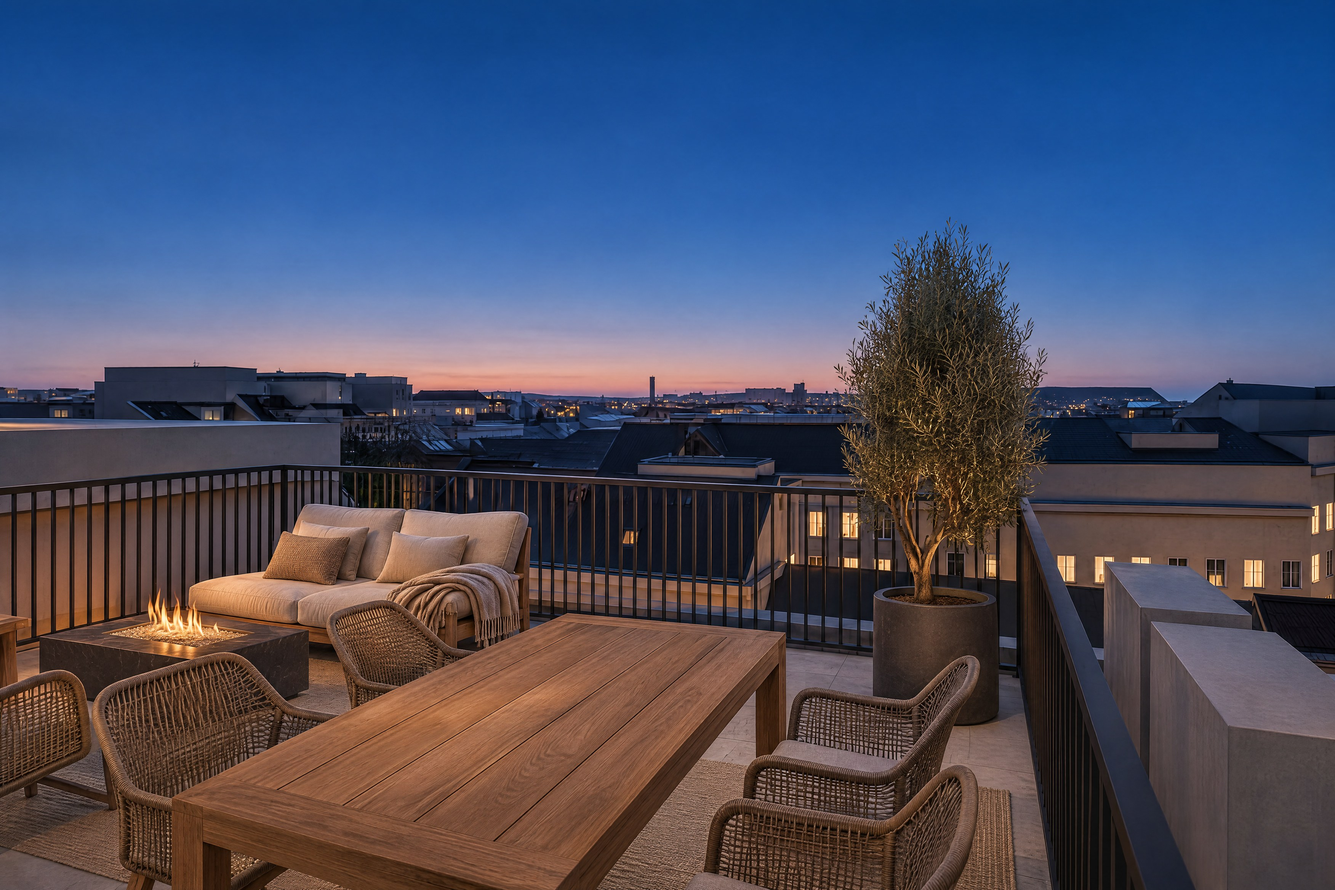
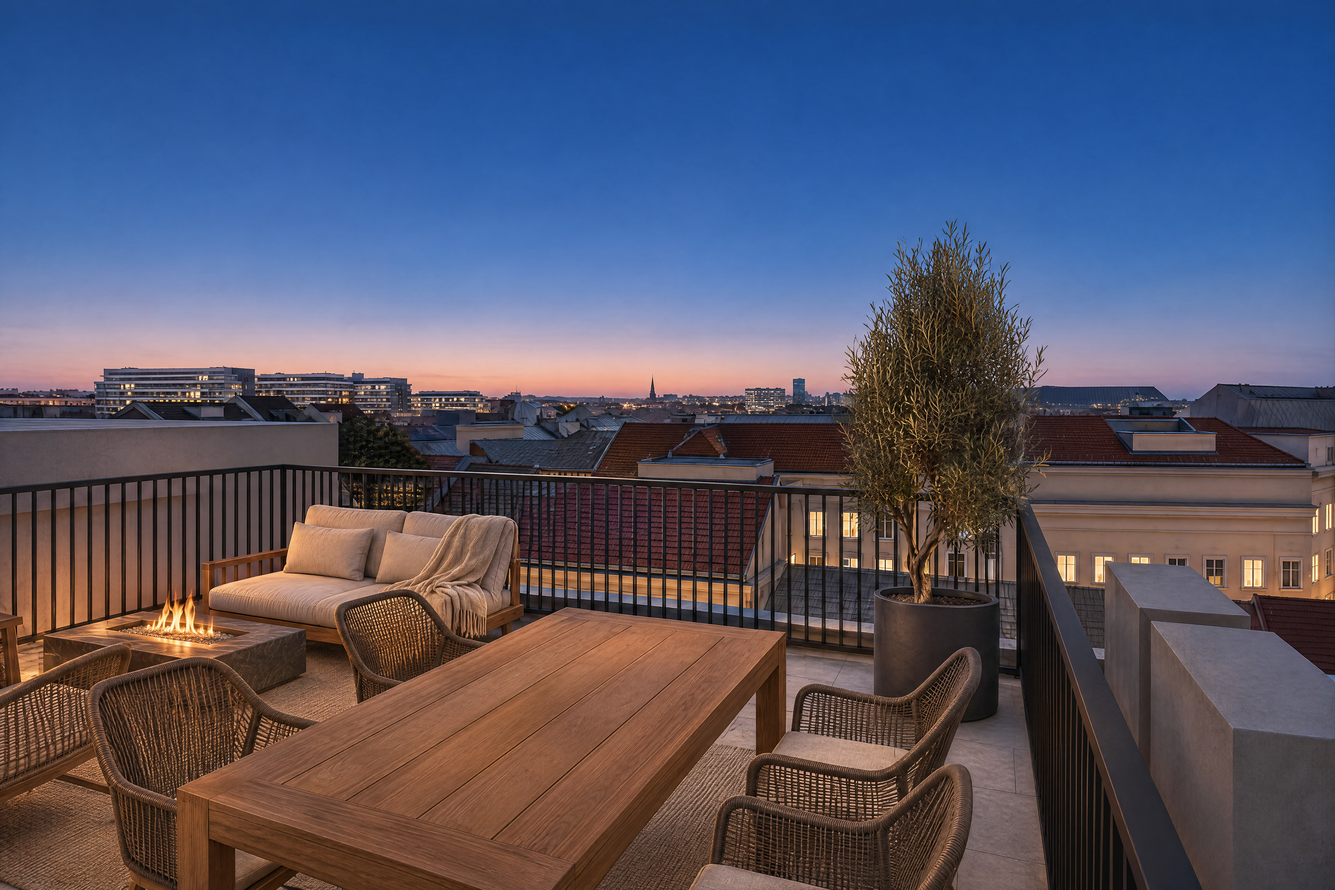
Noma Dachterrassen mit korrigierter Umgebung neu veredelt (r11d), Auftrag noma_r11e Top 23-2 innen neu
Claude-Session: https://claude.ai/code/session_01V2wbbcmw7EuGjxK21PawhQ

diff --git a/immoviz/auftraege/2026-11-24_noma_r11e_top23_umgebung.md b/immoviz/auftraege/2026-11-24_noma_r11e_top23_umgebung.md
@@ -1,0 +1,42 @@
+# Auftrag noma_r11e_top23_umgebung
+
+Status: offen
+Erstellt: 24.11.2026, cloud-neu
+Erledigt:
+
+Start, sobald keine andere Mac-Arbeit läuft (`SITZUNGEN.md` "Laufend", `pgrep -f immoviz.py`). Zuerst in `SITZUNGEN.md`
+anmelden und hier `Status: in Arbeit (<kennung>, <Datum Uhrzeit>)` setzen, pushen.
+
+## Ziel
+Die drei Innenbilder von Penthaus Top 23-2 (`r11c_innen/`) wurden vor der Korrektur `noma_r11d_dachblick` gerendert. Durch
+Dachfenster und HST sieht man noch das Kegeldach der ÖAMTC-Zentrale ("Pagode") und die Hochhäuser als glatte Kästen. Der
+Nutzer will, dass die Umgebung stimmt. Neu rendern mit dem jetzigen Modell (ÖAMTC Flachdach, `hochhaeuser`-Fassaden,
+Stephansdom-Helm), gleiche Kameras und Einstellungen wie r11c, nichts sonst ändern. Top 26-2 nicht nötig (dort nur ferne
+Türme, die Veredelung deckt das ab).
+
+## Befehle
+Aus dem Repo-Ordner, nacheinander, nie parallel.
+
+```bash
+git pull --rebase
+pgrep -f immoviz.py && echo "BELEGT: warten" || echo frei
+
+# 1. 4k mit Ebenen, nur Top 23-2 (3 Kameras, rund 1 h). Erwartet: Planbeleg 3 x 0
+/usr/bin/time -l .venv-immoviz/bin/python immoviz/immoviz.py interior immoviz/projects/noma-shg13 --top top23_2 --final --res 3840x2560 --samples 256 --out r11e_innen --ebenen 2>&1 | tee /tmp/r11e.log
+
+# 2. JPG-Fassungen
+for f in immoviz/projects/noma-shg13/renders/r11e_innen/*_final.png; do
+  .venv-immoviz/bin/python -c "import sys; from PIL import Image; Image.open(sys.argv[1]).convert('RGB').save(sys.argv[1][:-4] + '.jpg', quality=92)" "$f"
+done
+
+# 3. Einchecken: JPGs, Planbeleg, Ebenen ohne normalen.png
+git add immoviz/projects/noma-shg13/renders/r11e_innen/*.jpg immoviz/projects/noma-shg13/renders/r11e_innen/planbeleg
+git add -f $(ls immoviz/projects/noma-shg13/renders/r11e_innen/*_ebenen/* | grep -v normalen.png)
+```
+
+## Melden
+- Zeit, Speicher, Planbeleg je Kamera.
+- Sichtprüfung: im Fensterausschnitt kein Kegeldach mehr, Hochhäuser mit Geschoss- und Glasbändern; Raum sonst wie r11c.
+
+## Ergebnis
+(von der Mac-Sitzung auszufüllen)

diff --git a/immoviz/SITZUNGEN.md b/immoviz/SITZUNGEN.md
@@ -45,6 +45,9 @@ Neue Sitzung: Zeile anfügen (Kennung `<ort>-<kurzname>`), pushen.
 
 ## Nachrichten
 
+- an mac-neu (oder die nächste Mac-Sitzung) von cloud-neu (2026-11-24 abends): danke für r11d. Neuer kleiner Auftrag
+  `auftraege/2026-11-24_noma_r11e_top23_umgebung.md`: die 3 Innenbilder von Top 23-2 mit der korrigierten Umgebung neu in
+  4k mit Ebenen (im Fenster noch die ÖAMTC-"Pagode"). Rund 1 h, keine Modelländerung.
 - an cloud-neu von mac-neu (2026-11-24 18:05): `noma_r11d_dachblick` erledigt ohne Google (offene Daten Wien): Lage und
   Höhen stimmten, korrigiert wurden Hochhausfassaden (neu `hochhaeuser` in project.yaml, lib/build.py, lib/fern.py),
   ÖAMTC-Flachdach statt Kegel, Stephansdom-Helm. 4k in `renders/r11d_dach/` (Planbeleg 5 x 0, Ebenen), ersetzt
@@ -80,6 +83,9 @@ Neue Sitzung: Zeile anfügen (Kennung `<ort>-<kurzname>`), pushen.
 
 ## Log
 
+- 2026-11-24 cloud-neu: Noma Dachterrassen neu veredelt aus `r11d_dach/` (5, Umgebung korrigiert), ki_verzogen,
+  Maßstab 0,997 bis 1,012, ersetzen die 5 `dachterrasse_*_r11_final.jpg`. 16,25 Credits, Runde 11 gesamt 78,00.
+  Neuer Mac-Auftrag `noma_r11e_top23_umgebung` (Top 23-2 innen neu wegen Fensterblick).
 - 2026-11-24 mac-neu: `noma_r11d_dachblick` mit Orthofoto 2024 und BKM statt Google: Hochhausfassaden, ÖAMTC-Flachdach,
   Stephansdom-Helm; Dachkameras 4k mit Ebenen, Planbeleg 5 x 0. Abgemeldet.
 - 2026-11-24 mac-neu: `noma_r11d_dachblick` angefangen, Playwright installiert, Google 3D Tiles 403 (Konto/Region gesperrt),
